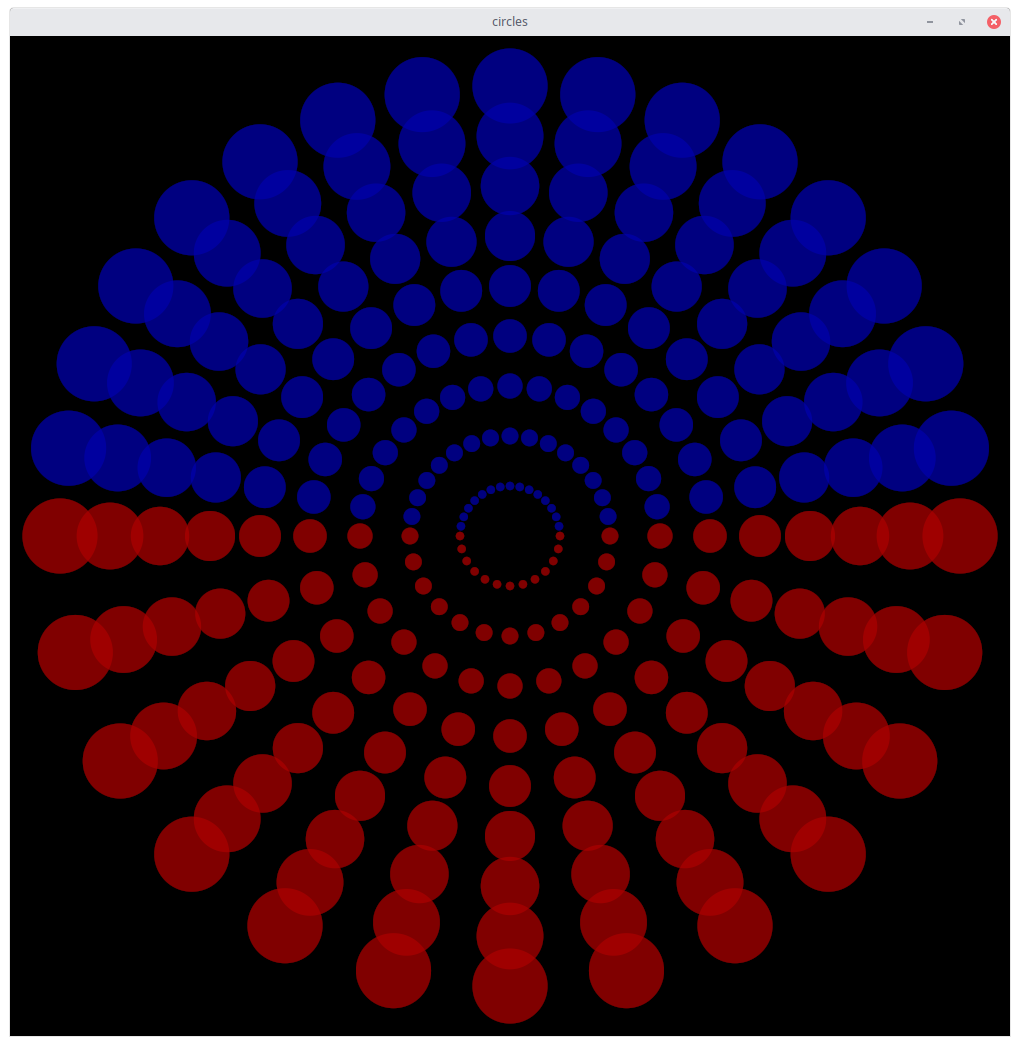
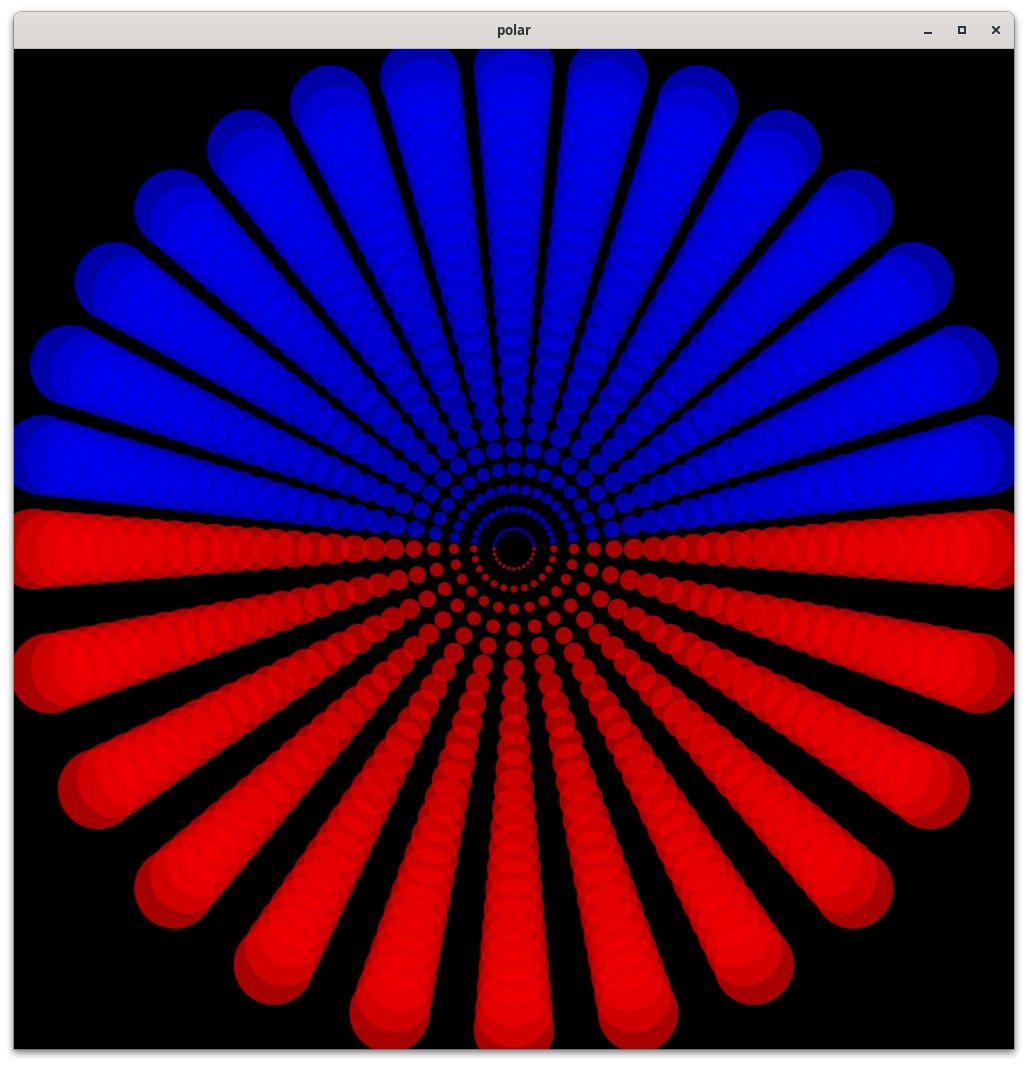
update polar

diff --git a/polar/main.go b/polar/main.go
@@ -4,7 +4,6 @@ package main
 import (
 	"flag"
 	"image/color"
-	"io"
 	"math"
 	"os"
 
@@ -13,24 +12,27 @@ import (
 	"github.com/ajstarks/giocanvas"
 )
 
-func circles(w *app.Window) error {
+func polar(title string, width, height float32) {
+	w := &app.Window{}
+	w.Option(app.Title("polar"), app.Size(unit.Dp(width), unit.Dp(height)))
+
 	for {
 		e := w.Event()
 		switch e := e.(type) {
 		case app.DestroyEvent:
-			return e.Err
+			os.Exit(0)
 		case app.FrameEvent:
 			canvas := giocanvas.NewCanvas(float32(e.Size.X), float32(e.Size.Y), app.FrameEvent{})
 			canvas.Background(color.NRGBA{0, 0, 0, 255})
 			var theta, radius float32
-			for radius = 5; radius < 50; radius += 5 {
+			for radius = 2; radius < 50; radius += 2 {
 				for theta = 180; theta <= 360; theta += 15 {
 					x, y := canvas.PolarDegrees(50, 50, radius, theta)
-					canvas.Circle(x, y, radius/12, color.NRGBA{128, 0, 0, 120})
+					canvas.Circle(x, y, radius/12, color.NRGBA{255, 0, 0, 100})
 				}
 				for theta = math.Pi / 16; theta < math.Pi; theta += math.Pi / 16 {
 					x, y := canvas.Polar(50, 50, radius, theta)
-					canvas.Circle(x, y, radius/12, color.NRGBA{0, 0, 128, 120})
+					canvas.Circle(x, y, radius/12, color.NRGBA{0, 0, 255, 100})
 				}
 			}
 			e.Frame(canvas.Context.Ops)
@@ -39,21 +41,10 @@ func circles(w *app.Window) error {
 }
 
 func main() {
-	var cw, ch int
-	flag.IntVar(&cw, "width", 1000, "canvas width")
-	flag.IntVar(&ch, "height", 1000, "canvas height")
-	flag.Parse()
-	width := float32(cw)
-	height := float32(ch)
 
-	go func() {
-		w := &app.Window{}
-		w.Option(app.Title("polar"), app.Size(unit.Dp(width), unit.Dp(height)))
-		if err := circles(w); err != nil {
-			io.WriteString(os.Stderr, "Cannot create the window\n")
-			os.Exit(1)
-		}
-		os.Exit(0)
-	}()
+	cw := flag.Int("width", 1000, "canvas width")
+	ch := flag.Int("height", 1000, "canvas height")
+	flag.Parse()
+	go polar("polar", float32(*cw), float32(*ch))
 	app.Main()
 }
